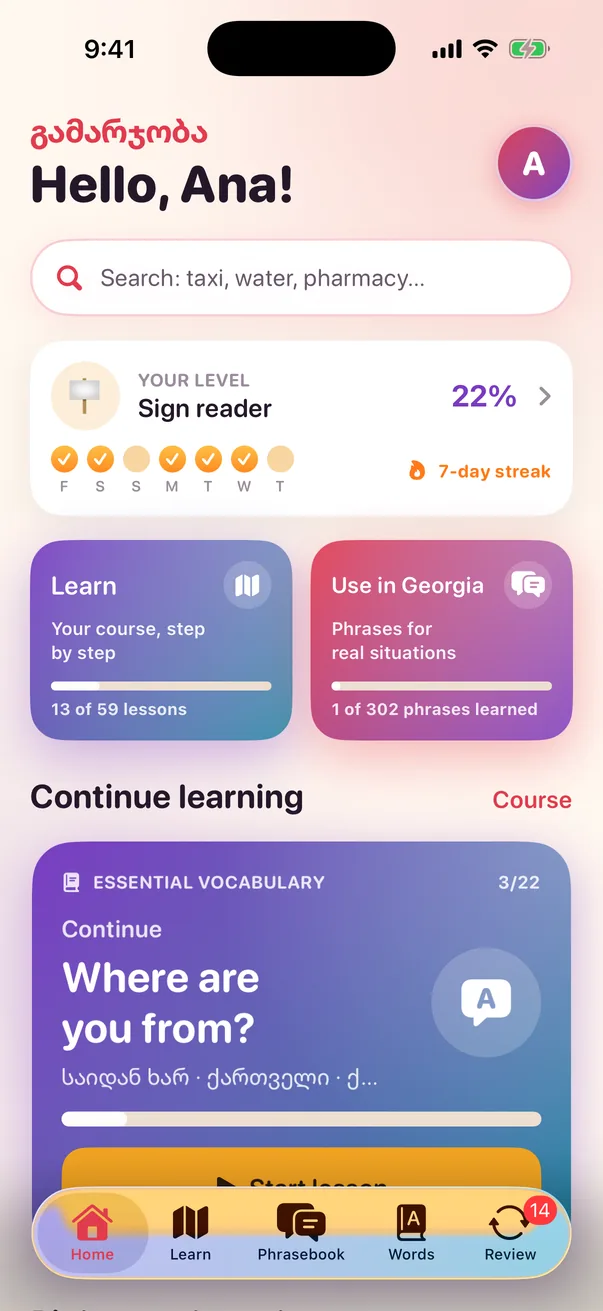
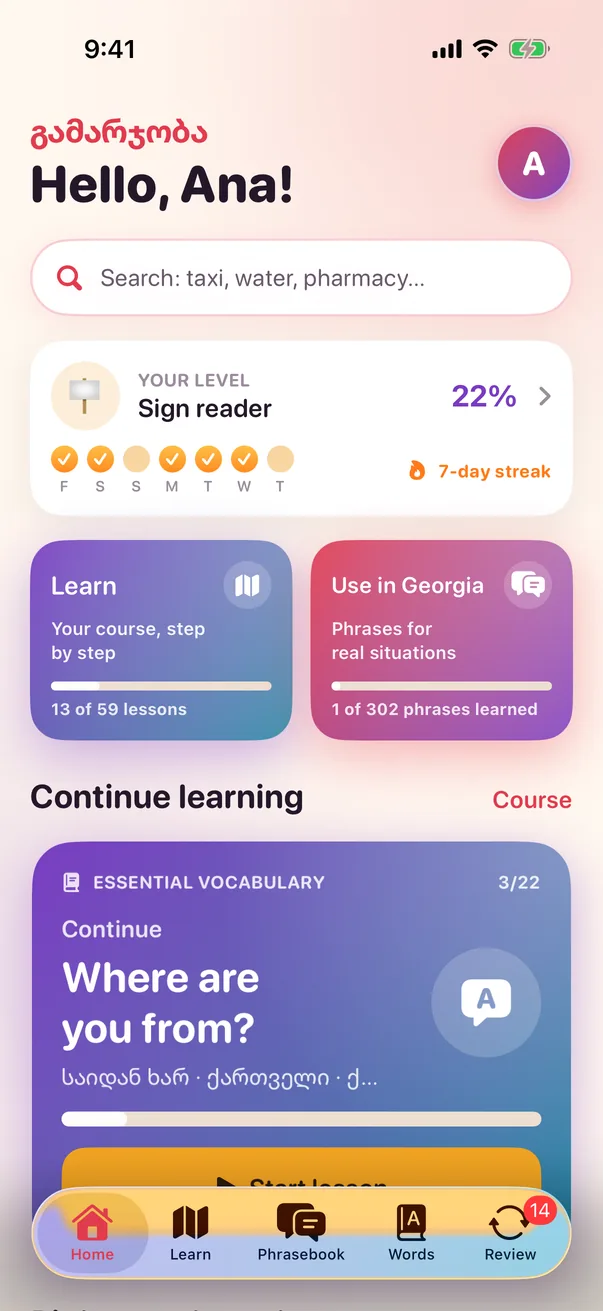
Site: the owner's iPhone frame
The screenshot sits under frame.webp, fitted to its see-through screen; the
simulator's own Dynamic Island is painted out of the screenshots so only the
frame's shows (the two models' islands differ in width).

Claude-Session: https://claude.ai/code/session_01DAx8mCnmiYNubaiXsBqvV2

Changed region(s): [[0.3284, 0.0, 0.6567, 0.061]]

diff --git a/pl/index.html b/pl/index.html
@@ -39,9 +39,9 @@
   </div>
   <div class="fan">
     <div class="glow" aria-hidden="true"></div>
-    <div class="phone left"><div class="screen"><picture><source media="(prefers-color-scheme: dark)" srcset="/shots/alphabet-dark.webp"><img src="/shots/alphabet-light.webp" width="603" height="1311" alt="Tablica alfabetu w Arze" loading="lazy" decoding="async"></picture></div></div>
-    <div class="phone right"><div class="screen"><picture><source media="(prefers-color-scheme: dark)" srcset="/shots/phrase-dark.webp"><img src="/shots/phrase-light.webp" width="603" height="1311" alt="Karta zwrotu: prośba do taksówkarza, żeby się tu zatrzymał, po gruzińsku, z nagraniem" loading="lazy" decoding="async"></picture></div></div>
-    <div class="phone center"><div class="screen"><picture><source media="(prefers-color-scheme: dark)" srcset="/shots/home-dark.webp"><img src="/shots/home-light.webp" width="603" height="1311" alt="Ekran startowy Ary: powitanie, wyszukiwarka, postępy i następna lekcja" fetchpriority="high" decoding="async"></picture></div></div>
+    <div class="phone left"><div class="screen"><picture><source media="(prefers-color-scheme: dark)" srcset="/shots/alphabet-dark.webp"><img src="/shots/alphabet-light.webp" width="603" height="1311" alt="Tablica alfabetu w Arze" loading="lazy" decoding="async"></picture></div><img class="frame" src="/frame.webp" width="978" height="2000" alt=""></div>
+    <div class="phone right"><div class="screen"><picture><source media="(prefers-color-scheme: dark)" srcset="/shots/phrase-dark.webp"><img src="/shots/phrase-light.webp" width="603" height="1311" alt="Karta zwrotu: prośba do taksówkarza, żeby się tu zatrzymał, po gruzińsku, z nagraniem" loading="lazy" decoding="async"></picture></div><img class="frame" src="/frame.webp" width="978" height="2000" alt=""></div>
+    <div class="phone center"><div class="screen"><picture><source media="(prefers-color-scheme: dark)" srcset="/shots/home-dark.webp"><img src="/shots/home-light.webp" width="603" height="1311" alt="Ekran startowy Ary: powitanie, wyszukiwarka, postępy i następna lekcja" fetchpriority="high" decoding="async"></picture></div><img class="frame" src="/frame.webp" width="978" height="2000" alt=""></div>
     <img class="mascot" src="/mascot.png" width="360" height="525" alt="Ara, papuga ara, macha skrzydłem">
   </div>
 </section>
@@ -56,56 +56,56 @@
   <div class="walk-grid">
     <div class="steps">
     <article class="step is-active" data-step="0" style="--c: var(--pomegranate)">
-      <div class="art"><div class="phone "><div class="screen"><picture><source media="(prefers-color-scheme: dark)" srcset="/shots/letter-dark.webp"><img src="/shots/letter-light.webp" width="603" height="1311" alt="Nauka nowej litery: nazwa, dźwięk i nagranie" loading="lazy" decoding="async"></picture></div></div></div>
+      <div class="art"><div class="phone "><div class="screen"><picture><source media="(prefers-color-scheme: dark)" srcset="/shots/letter-dark.webp"><img src="/shots/letter-light.webp" width="603" height="1311" alt="Nauka nowej litery: nazwa, dźwięk i nagranie" loading="lazy" decoding="async"></picture></div><img class="frame" src="/frame.webp" width="978" height="2000" alt=""></div></div>
       <span class="chip">Nauka</span>
       <h3>Zacznij od pierwszej litery.</h3>
       <p>Gruziński ma własny alfabet: 33 litery, bez wielkich liter, każda to jeden dźwięk. Ara przedstawia je po kolei, z nagraniem i wskazówką do każdego dźwięku, porównaną z polskim.</p>
       <ul class="list"><li>33 litery, każda ze swoim dźwiękiem</li><li>Czytanie od pierwszej lekcji</li><li>Już czytasz po gruzińsku? Zacznij dalej</li></ul>
     </article>
     <article class="step" data-step="1" style="--c: var(--saperavi)">
-      <div class="art"><div class="phone "><div class="screen"><picture><source media="(prefers-color-scheme: dark)" srcset="/shots/lesson-dark.webp"><img src="/shots/lesson-light.webp" width="603" height="1311" alt="Ćwiczenie: co znaczy პური (chleb)?" loading="lazy" decoding="async"></picture></div></div></div>
+      <div class="art"><div class="phone "><div class="screen"><picture><source media="(prefers-color-scheme: dark)" srcset="/shots/lesson-dark.webp"><img src="/shots/lesson-light.webp" width="603" height="1311" alt="Ćwiczenie: co znaczy პური (chleb)?" loading="lazy" decoding="async"></picture></div><img class="frame" src="/frame.webp" width="978" height="2000" alt=""></div></div>
       <span class="chip">Lekcje</span>
       <h3>Krótkie lekcje, które zostają.</h3>
       <p>59 lekcji w sześciu etapach, od pierwszej litery do suto zastawionego stołu. 15 rodzajów ćwiczeń: słuchanie, łączenie w pary, pisanie, układanie zdań, wybór odpowiedzi.</p>
       <ul class="list"><li>Słowa, których naprawdę użyjesz</li><li>Gramatyka prostymi słowami, w porównaniu z polską</li><li>Stuknij słowo, by zobaczyć, co znaczy</li><li>Błędna odpowiedź wraca na końcu</li></ul>
     </article>
     <article class="step" data-step="2" style="--c: var(--tkemali)">
-      <div class="art"><div class="phone "><div class="screen"><picture><source media="(prefers-color-scheme: dark)" srcset="/shots/phrasebook-dark.webp"><img src="/shots/phrasebook-light.webp" width="603" height="1311" alt="Zakładka W Gruzji: wyszukiwarka, zwroty awaryjne i sytuacje" loading="lazy" decoding="async"></picture></div></div></div>
+      <div class="art"><div class="phone "><div class="screen"><picture><source media="(prefers-color-scheme: dark)" srcset="/shots/phrasebook-dark.webp"><img src="/shots/phrasebook-light.webp" width="603" height="1311" alt="Zakładka W Gruzji: wyszukiwarka, zwroty awaryjne i sytuacje" loading="lazy" decoding="async"></picture></div><img class="frame" src="/frame.webp" width="978" height="2000" alt=""></div></div>
       <span class="chip">W Gruzji</span>
       <h3>302 zwroty na prawdziwe sytuacje.</h3>
       <p>Gotowe od pierwszego dnia, nic do odblokowania: 11 sytuacji, w każdej słowa potrzebne od razu. Zapisz zwrot, a trafi do Twoich powtórek.</p>
       <ul class="list"><li>Transport</li><li>Zakupy i bazar</li><li>Restauracje i kawiarnie</li><li>Zdrowie i apteka</li><li>Dom i codzienność</li><li>Nagłe wypadki, z numerem 112</li></ul>
     </article>
     <article class="step" data-step="3" style="--c: var(--blacksea)">
-      <div class="art"><div class="phone "><div class="screen"><picture><source media="(prefers-color-scheme: dark)" srcset="/shots/show-dark.webp"><img src="/shots/show-light.webp" width="603" height="1311" alt="Tryb Pokaż: zwrot dużymi gruzińskimi literami do pokazania komuś" loading="lazy" decoding="async"></picture></div></div></div>
+      <div class="art"><div class="phone "><div class="screen"><picture><source media="(prefers-color-scheme: dark)" srcset="/shots/show-dark.webp"><img src="/shots/show-light.webp" width="603" height="1311" alt="Tryb Pokaż: zwrot dużymi gruzińskimi literami do pokazania komuś" loading="lazy" decoding="async"></picture></div><img class="frame" src="/frame.webp" width="978" height="2000" alt=""></div></div>
       <span class="chip">Pokaż</span>
       <h3>Wstydzisz się powiedzieć? Pokaż.</h3>
       <p>Jedno stuknięcie i zwrot pojawia się dużymi, wyraźnymi literami: do pokazania kierowcy albo sprzedawcy. Albo odtwórz go na głos, także wolniej.</p>
       <ul class="list"><li>Duży tekst, jasny lub ciemny</li><li>Nagranie w zwykłym lub wolnym tempie</li><li>Zapis „jak to brzmi”, żeby powiedzieć samemu</li></ul>
     </article>
     <article class="step" data-step="4" style="--c: var(--gold)">
-      <div class="art"><div class="phone "><div class="screen"><picture><source media="(prefers-color-scheme: dark)" srcset="/shots/dialogue-dark.webp"><img src="/shots/dialogue-light.webp" width="603" height="1311" alt="Rozmowa na bazarze między sprzedawcą a klientem" loading="lazy" decoding="async"></picture></div></div></div>
+      <div class="art"><div class="phone "><div class="screen"><picture><source media="(prefers-color-scheme: dark)" srcset="/shots/dialogue-dark.webp"><img src="/shots/dialogue-light.webp" width="603" height="1311" alt="Rozmowa na bazarze między sprzedawcą a klientem" loading="lazy" decoding="async"></picture></div><img class="frame" src="/frame.webp" width="978" height="2000" alt=""></div></div>
       <span class="chip">Rozmowy</span>
       <h3>Ćwicz prawdziwe rozmowy.</h3>
       <p>21 codziennych dialogów: na bazarze, w marszrutce, na kolacji u znajomych. Czytaj, słuchaj każdej kwestii, a potem wybierz stronę i odpowiadaj sam.</p>
       <ul class="list"><li>Taksówka</li><li>Na bazarze</li><li>W aptece</li><li>Kolacja u znajomych</li><li>Karta SIM</li><li>Telefon pod 112</li></ul>
     </article>
     <article class="step" data-step="5" style="--c: var(--saperavi)">
-      <div class="art"><div class="phone "><div class="screen"><picture><source media="(prefers-color-scheme: dark)" srcset="/shots/search-dark.webp"><img src="/shots/search-light.webp" width="603" height="1311" alt="Wyszukiwanie słowa „woda”: słowa i zwroty z nim" loading="lazy" decoding="async"></picture></div></div></div>
+      <div class="art"><div class="phone "><div class="screen"><picture><source media="(prefers-color-scheme: dark)" srcset="/shots/search-dark.webp"><img src="/shots/search-light.webp" width="603" height="1311" alt="Wyszukiwanie słowa „woda”: słowa i zwroty z nim" loading="lazy" decoding="async"></picture></div><img class="frame" src="/frame.webp" width="978" height="2000" alt=""></div></div>
       <span class="chip">Słowa</span>
       <h3>Znajdź każde słowo, jakkolwiek je wpiszesz.</h3>
       <p>Szukaj po polsku, po gruzińsku albo łacinką; literówki nie szkodzą. Słowa, zwroty, sytuacje i rozmowy w jednym miejscu.</p>
       <ul class="list"><li>Każde słowo z aplikacji, ze znaczeniem</li><li>Co już znasz, a co jest nowe</li></ul>
     </article>
     <article class="step" data-step="6" style="--c: var(--pomegranate)">
-      <div class="art"><div class="phone "><div class="screen"><picture><source media="(prefers-color-scheme: dark)" srcset="/shots/review-dark.webp"><img src="/shots/review-light.webp" width="603" height="1311" alt="Powtórki: 14 na dziś i trudne słowa" loading="lazy" decoding="async"></picture></div></div></div>
+      <div class="art"><div class="phone "><div class="screen"><picture><source media="(prefers-color-scheme: dark)" srcset="/shots/review-dark.webp"><img src="/shots/review-light.webp" width="603" height="1311" alt="Powtórki: 14 na dziś i trudne słowa" loading="lazy" decoding="async"></picture></div><img class="frame" src="/frame.webp" width="978" height="2000" alt=""></div></div>
       <span class="chip">Powtórki</span>
       <h3>Pamiętaj także za tydzień.</h3>
       <p>Każde słowo wraca tuż przed tym, zanim je zapomnisz: po dniu, potem po trzech, potem po ośmiu. Pomyłka? Wróci za dziesięć minut.</p>
       <ul class="list"><li>Kilka minut dziennie</li><li>Trudne słowa zebrane w jednym miejscu</li></ul>
     </article>
     <article class="step" data-step="7" style="--c: var(--tkemali)">
-      <div class="art"><div class="phone "><div class="screen"><picture><source media="(prefers-color-scheme: dark)" srcset="/shots/progress-dark.webp"><img src="/shots/progress-light.webp" width="603" height="1311" alt="Postępy: etap Czytelnik szyldów i to, co już umiesz" loading="lazy" decoding="async"></picture></div></div></div>
+      <div class="art"><div class="phone "><div class="screen"><picture><source media="(prefers-color-scheme: dark)" srcset="/shots/progress-dark.webp"><img src="/shots/progress-light.webp" width="603" height="1311" alt="Postępy: etap Czytelnik szyldów i to, co już umiesz" loading="lazy" decoding="async"></picture></div><img class="frame" src="/frame.webp" width="978" height="2000" alt=""></div></div>
       <span class="chip">Postępy</span>
       <h3>Od lądowania do tamady.</h3>
       <p>Bez punktów do zbierania. Ara pokazuje, co naprawdę już umiesz: od czytania szyldów po wznoszenie toastu na suprze.</p>
@@ -114,7 +114,7 @@
     </div>
     <div class="pin" aria-hidden="true">
       <div class="pin-in">
-        <div class="stack"><div class="shot" data-shot="0" style="--c: var(--pomegranate)"><div class="phone flat"><div class="screen"><picture><source media="(prefers-color-scheme: dark)" srcset="/shots/letter-dark.webp"><img src="/shots/letter-light.webp" width="603" height="1311" alt="" loading="lazy" decoding="async"></picture></div></div></div><div class="shot" data-shot="1" style="--c: var(--saperavi)"><div class="phone flat"><div class="screen"><picture><source media="(prefers-color-scheme: dark)" srcset="/shots/lesson-dark.webp"><img src="/shots/lesson-light.webp" width="603" height="1311" alt="" loading="lazy" decoding="async"></picture></div></div></div><div class="shot" data-shot="2" style="--c: var(--tkemali)"><div class="phone flat"><div class="screen"><picture><source media="(prefers-color-scheme: dark)" srcset="/shots/phrasebook-dark.webp"><img src="/shots/phrasebook-light.webp" width="603" height="1311" alt="" loading="lazy" decoding="async"></picture></div></div></div><div class="shot" data-shot="3" style="--c: var(--blacksea)"><div class="phone flat"><div class="screen"><picture><source media="(prefers-color-scheme: dark)" srcset="/shots/show-dark.webp"><img src="/shots/show-light.webp" width="603" height="1311" alt="" loading="lazy" decoding="async"></picture></div></div></div><div class="shot" data-shot="4" style="--c: var(--gold)"><div class="phone flat"><div class="screen"><picture><source media="(prefers-color-scheme: dark)" srcset="/shots/dialogue-dark.webp"><img src="/shots/dialogue-light.webp" width="603" height="1311" alt="" loading="lazy" decoding="async"></picture></div></div></div><div class="shot" data-shot="5" style="--c: var(--saperavi)"><div class="phone flat"><div class="screen"><picture><source media="(prefers-color-scheme: dark)" srcset="/shots/search-dark.webp"><img src="/shots/search-light.webp" width="603" height="1311" alt="" loading="lazy" decoding="async"></picture></div></div></div><div class="shot" data-shot="6" style="--c: var(--pomegranate)"><div class="phone flat"><div class="screen"><picture><source media="(prefers-color-scheme: dark)" srcset="/shots/review-dark.webp"><img src="/shots/review-light.webp" width="603" height="1311" alt="" loading="lazy" decoding="async"></picture></div></div></div><div class="shot" data-shot="7" style="--c: var(--tkemali)"><div class="phone flat"><div class="screen"><picture><source media="(prefers-color-scheme: dark)" srcset="/shots/progress-dark.webp"><img src="/shots/progress-light.webp" width="603" height="1311" alt="" loading="lazy" decoding="async"></picture></div></div></div></div>
+        <div class="stack"><div class="shot" data-shot="0" style="--c: var(--pomegranate)"><div class="phone flat"><div class="screen"><picture><source media="(prefers-color-scheme: dark)" srcset="/shots/letter-dark.webp"><img src="/shots/letter-light.webp" width="603" height="1311" alt="" loading="lazy" decoding="async"></picture></div><img class="frame" src="/frame.webp" width="978" height="2000" alt=""></div></div><div class="shot" data-shot="1" style="--c: var(--saperavi)"><div class="phone flat"><div class="screen"><picture><source media="(prefers-color-scheme: dark)" srcset="/shots/lesson-dark.webp"><img src="/shots/lesson-light.webp" width="603" height="1311" alt="" loading="lazy" decoding="async"></picture></div><img class="frame" src="/frame.webp" width="978" height="2000" alt=""></div></div><div class="shot" data-shot="2" style="--c: var(--tkemali)"><div class="phone flat"><div class="screen"><picture><source media="(prefers-color-scheme: dark)" srcset="/shots/phrasebook-dark.webp"><img src="/shots/phrasebook-light.webp" width="603" height="1311" alt="" loading="lazy" decoding="async"></picture></div><img class="frame" src="/frame.webp" width="978" height="2000" alt=""></div></div><div class="shot" data-shot="3" style="--c: var(--blacksea)"><div class="phone flat"><div class="screen"><picture><source media="(prefers-color-scheme: dark)" srcset="/shots/show-dark.webp"><img src="/shots/show-light.webp" width="603" height="1311" alt="" loading="lazy" decoding="async"></picture></div><img class="frame" src="/frame.webp" width="978" height="2000" alt=""></div></div><div class="shot" data-shot="4" style="--c: var(--gold)"><div class="phone flat"><div class="screen"><picture><source media="(prefers-color-scheme: dark)" srcset="/shots/dialogue-dark.webp"><img src="/shots/dialogue-light.webp" width="603" height="1311" alt="" loading="lazy" decoding="async"></picture></div><img class="frame" src="/frame.webp" width="978" height="2000" alt=""></div></div><div class="shot" data-shot="5" style="--c: var(--saperavi)"><div class="phone flat"><div class="screen"><picture><source media="(prefers-color-scheme: dark)" srcset="/shots/search-dark.webp"><img src="/shots/search-light.webp" width="603" height="1311" alt="" loading="lazy" decoding="async"></picture></div><img class="frame" src="/frame.webp" width="978" height="2000" alt=""></div></div><div class="shot" data-shot="6" style="--c: var(--pomegranate)"><div class="phone flat"><div class="screen"><picture><source media="(prefers-color-scheme: dark)" srcset="/shots/review-dark.webp"><img src="/shots/review-light.webp" width="603" height="1311" alt="" loading="lazy" decoding="async"></picture></div><img class="frame" src="/frame.webp" width="978" height="2000" alt=""></div></div><div class="shot" data-shot="7" style="--c: var(--tkemali)"><div class="phone flat"><div class="screen"><picture><source media="(prefers-color-scheme: dark)" srcset="/shots/progress-dark.webp"><img src="/shots/progress-light.webp" width="603" height="1311" alt="" loading="lazy" decoding="async"></picture></div><img class="frame" src="/frame.webp" width="978" height="2000" alt=""></div></div></div>
         <div class="ticks"><i style="--c: var(--pomegranate)"></i><i style="--c: var(--saperavi)"></i><i style="--c: var(--tkemali)"></i><i style="--c: var(--blacksea)"></i><i style="--c: var(--gold)"></i><i style="--c: var(--saperavi)"></i><i style="--c: var(--pomegranate)"></i><i style="--c: var(--tkemali)"></i></div>
       </div>
     </div>

diff --git a/index.html b/index.html
@@ -39,9 +39,9 @@
   </div>
   <div class="fan">
     <div class="glow" aria-hidden="true"></div>
-    <div class="phone left"><div class="screen"><picture><source media="(prefers-color-scheme: dark)" srcset="/shots/alphabet-dark.webp"><img src="/shots/alphabet-light.webp" width="603" height="1311" alt="The alphabet chart in Ara" loading="lazy" decoding="async"></picture></div></div>
-    <div class="phone right"><div class="screen"><picture><source media="(prefers-color-scheme: dark)" srcset="/shots/phrase-dark.webp"><img src="/shots/phrase-light.webp" width="603" height="1311" alt="A phrase card: ask the taxi to stop here, in Georgian, with audio" loading="lazy" decoding="async"></picture></div></div>
-    <div class="phone center"><div class="screen"><picture><source media="(prefers-color-scheme: dark)" srcset="/shots/home-dark.webp"><img src="/shots/home-light.webp" width="603" height="1311" alt="Ara's Home screen: greeting, search, progress and the next lesson" fetchpriority="high" decoding="async"></picture></div></div>
+    <div class="phone left"><div class="screen"><picture><source media="(prefers-color-scheme: dark)" srcset="/shots/alphabet-dark.webp"><img src="/shots/alphabet-light.webp" width="603" height="1311" alt="The alphabet chart in Ara" loading="lazy" decoding="async"></picture></div><img class="frame" src="/frame.webp" width="978" height="2000" alt=""></div>
+    <div class="phone right"><div class="screen"><picture><source media="(prefers-color-scheme: dark)" srcset="/shots/phrase-dark.webp"><img src="/shots/phrase-light.webp" width="603" height="1311" alt="A phrase card: ask the taxi to stop here, in Georgian, with audio" loading="lazy" decoding="async"></picture></div><img class="frame" src="/frame.webp" width="978" height="2000" alt=""></div>
+    <div class="phone center"><div class="screen"><picture><source media="(prefers-color-scheme: dark)" srcset="/shots/home-dark.webp"><img src="/shots/home-light.webp" width="603" height="1311" alt="Ara's Home screen: greeting, search, progress and the next lesson" fetchpriority="high" decoding="async"></picture></div><img class="frame" src="/frame.webp" width="978" height="2000" alt=""></div>
     <img class="mascot" src="/mascot.png" width="360" height="525" alt="Ara the macaw waving">
   </div>
 </section>
@@ -56,56 +56,56 @@
   <div class="walk-grid">
     <div class="steps">
     <article class="step is-active" data-step="0" style="--c: var(--pomegranate)">
-      <div class="art"><div class="phone "><div class="screen"><picture><source media="(prefers-color-scheme: dark)" srcset="/shots/letter-dark.webp"><img src="/shots/letter-light.webp" width="603" height="1311" alt="Learning a new letter, with its name, sound and audio" loading="lazy" decoding="async"></picture></div></div></div>
+      <div class="art"><div class="phone "><div class="screen"><picture><source media="(prefers-color-scheme: dark)" srcset="/shots/letter-dark.webp"><img src="/shots/letter-light.webp" width="603" height="1311" alt="Learning a new letter, with its name, sound and audio" loading="lazy" decoding="async"></picture></div><img class="frame" src="/frame.webp" width="978" height="2000" alt=""></div></div>
       <span class="chip">Learn</span>
       <h3>Start from the very first letter.</h3>
       <p>Georgian has its own alphabet: 33 letters, no capitals, one sound each. Ara teaches them one at a time, with audio and a tip for every sound.</p>
       <ul class="list"><li>33 letters, each with its sound</li><li>Reading from the first lesson</li><li>Already reading Georgian? Start further along</li></ul>
     </article>
     <article class="step" data-step="1" style="--c: var(--saperavi)">
-      <div class="art"><div class="phone "><div class="screen"><picture><source media="(prefers-color-scheme: dark)" srcset="/shots/lesson-dark.webp"><img src="/shots/lesson-light.webp" width="603" height="1311" alt="An exercise: what does პური (bread) mean?" loading="lazy" decoding="async"></picture></div></div></div>
+      <div class="art"><div class="phone "><div class="screen"><picture><source media="(prefers-color-scheme: dark)" srcset="/shots/lesson-dark.webp"><img src="/shots/lesson-light.webp" width="603" height="1311" alt="An exercise: what does პური (bread) mean?" loading="lazy" decoding="async"></picture></div><img class="frame" src="/frame.webp" width="978" height="2000" alt=""></div></div>
       <span class="chip">Lessons</span>
       <h3>Short lessons that stay with you.</h3>
       <p>59 lessons in six stages, from the first letter to the dinner table. 15 kinds of exercise: listen, match pairs, spell, build a sentence, choose your reply.</p>
       <ul class="list"><li>Words you'll really use</li><li>Grammar in plain words</li><li>Tap any word to see its meaning</li><li>A wrong answer comes back at the end</li></ul>
     </article>
     <article class="step" data-step="2" style="--c: var(--tkemali)">
-      <div class="art"><div class="phone "><div class="screen"><picture><source media="(prefers-color-scheme: dark)" srcset="/shots/phrasebook-dark.webp"><img src="/shots/phrasebook-light.webp" width="603" height="1311" alt="The Use in Georgia tab: search, emergency phrases and situations" loading="lazy" decoding="async"></picture></div></div></div>
+      <div class="art"><div class="phone "><div class="screen"><picture><source media="(prefers-color-scheme: dark)" srcset="/shots/phrasebook-dark.webp"><img src="/shots/phrasebook-light.webp" width="603" height="1311" alt="The Use in Georgia tab: search, emergency phrases and situations" loading="lazy" decoding="async"></picture></div><img class="frame" src="/frame.webp" width="978" height="2000" alt=""></div></div>
       <span class="chip">Use in Georgia</span>
       <h3>302 phrases for real situations.</h3>
       <p>Ready from day one, with nothing to unlock: 11 situations, each with the words you need right now. Save a phrase and it joins your reviews.</p>
       <ul class="list"><li>Transport</li><li>Shopping & bazaar</li><li>Restaurants & cafés</li><li>Health & pharmacy</li><li>Home & everyday</li><li>Emergencies, with 112</li></ul>
     </article>
     <article class="step" data-step="3" style="--c: var(--blacksea)">
-      <div class="art"><div class="phone "><div class="screen"><picture><source media="(prefers-color-scheme: dark)" srcset="/shots/show-dark.webp"><img src="/shots/show-light.webp" width="603" height="1311" alt="Show mode: a phrase in large Georgian letters to show someone" loading="lazy" decoding="async"></picture></div></div></div>
+      <div class="art"><div class="phone "><div class="screen"><picture><source media="(prefers-color-scheme: dark)" srcset="/shots/show-dark.webp"><img src="/shots/show-light.webp" width="603" height="1311" alt="Show mode: a phrase in large Georgian letters to show someone" loading="lazy" decoding="async"></picture></div><img class="frame" src="/frame.webp" width="978" height="2000" alt=""></div></div>
       <span class="chip">Show mode</span>
       <h3>Too shy to say it? Show it.</h3>
       <p>One tap turns a phrase into big, clear Georgian to show a driver or a shopkeeper. Or play it aloud, slowly if you like.</p>
       <ul class="list"><li>Big text, light or dark</li><li>Audio, normal or slow</li><li>A sounds-like spelling to say it yourself</li></ul>
     </article>
     <article class="step" data-step="4" style="--c: var(--gold)">
-      <div class="art"><div class="phone "><div class="screen"><picture><source media="(prefers-color-scheme: dark)" srcset="/shots/dialogue-dark.webp"><img src="/shots/dialogue-light.webp" width="603" height="1311" alt="A conversation at the bazaar between a seller and a customer" loading="lazy" decoding="async"></picture></div></div></div>
+      <div class="art"><div class="phone "><div class="screen"><picture><source media="(prefers-color-scheme: dark)" srcset="/shots/dialogue-dark.webp"><img src="/shots/dialogue-light.webp" width="603" height="1311" alt="A conversation at the bazaar between a seller and a customer" loading="lazy" decoding="async"></picture></div><img class="frame" src="/frame.webp" width="978" height="2000" alt=""></div></div>
       <span class="chip">Conversations</span>
       <h3>Practise real conversations.</h3>
       <p>21 everyday dialogues: at the bazaar, on a marshrutka, at a friend's for dinner. Read along, hear every line, then take a side and answer yourself.</p>
       <ul class="list"><li>Taking a taxi</li><li>At the bazaar</li><li>At the pharmacy</li><li>Dinner at a friend's</li><li>Buying a SIM card</li><li>Calling 112</li></ul>
     </article>
     <article class="step" data-step="5" style="--c: var(--saperavi)">
-      <div class="art"><div class="phone "><div class="screen"><picture><source media="(prefers-color-scheme: dark)" srcset="/shots/search-dark.webp"><img src="/shots/search-light.webp" width="603" height="1311" alt="Searching for water: words and phrases with it" loading="lazy" decoding="async"></picture></div></div></div>
+      <div class="art"><div class="phone "><div class="screen"><picture><source media="(prefers-color-scheme: dark)" srcset="/shots/search-dark.webp"><img src="/shots/search-light.webp" width="603" height="1311" alt="Searching for water: words and phrases with it" loading="lazy" decoding="async"></picture></div><img class="frame" src="/frame.webp" width="978" height="2000" alt=""></div></div>
       <span class="chip">Words</span>
       <h3>Find any word, however you type it.</h3>
       <p>Search in English, in Georgian or in Latin letters, and typos are fine. Words, phrases, situations and conversations, all in one place.</p>
       <ul class="list"><li>Every word in the app, with its meaning</li><li>What you know and what's new</li></ul>
     </article>
     <article class="step" data-step="6" style="--c: var(--pomegranate)">
-      <div class="art"><div class="phone "><div class="screen"><picture><source media="(prefers-color-scheme: dark)" srcset="/shots/review-dark.webp"><img src="/shots/review-light.webp" width="603" height="1311" alt="Review: 14 items due today and the difficult words" loading="lazy" decoding="async"></picture></div></div></div>
+      <div class="art"><div class="phone "><div class="screen"><picture><source media="(prefers-color-scheme: dark)" srcset="/shots/review-dark.webp"><img src="/shots/review-light.webp" width="603" height="1311" alt="Review: 14 items due today and the difficult words" loading="lazy" decoding="async"></picture></div><img class="frame" src="/frame.webp" width="978" height="2000" alt=""></div></div>
       <span class="chip">Review</span>
       <h3>Remember it next week, too.</h3>
       <p>Each word comes back just before you'd forget it: after a day, then three, then eight. Miss one and it returns in ten minutes.</p>
       <ul class="list"><li>A few minutes a day</li><li>The difficult words, gathered for you</li></ul>
     </article>
     <article class="step" data-step="7" style="--c: var(--tkemali)">
-      <div class="art"><div class="phone "><div class="screen"><picture><source media="(prefers-color-scheme: dark)" srcset="/shots/progress-dark.webp"><img src="/shots/progress-light.webp" width="603" height="1311" alt="Progress: the stage Sign reader and what you can already do" loading="lazy" decoding="async"></picture></div></div></div>
+      <div class="art"><div class="phone "><div class="screen"><picture><source media="(prefers-color-scheme: dark)" srcset="/shots/progress-dark.webp"><img src="/shots/progress-light.webp" width="603" height="1311" alt="Progress: the stage Sign reader and what you can already do" loading="lazy" decoding="async"></picture></div><img class="frame" src="/frame.webp" width="978" height="2000" alt=""></div></div>
       <span class="chip">Progress</span>
       <h3>From Just landed to Tamada.</h3>
       <p>No points to collect. Ara shows what you can actually do, from reading shop signs to raising a toast at a supra.</p>
@@ -114,7 +114,7 @@
     </div>
     <div class="pin" aria-hidden="true">
       <div class="pin-in">
-        <div class="stack"><div class="shot" data-shot="0" style="--c: var(--pomegranate)"><div class="phone flat"><div class="screen"><picture><source media="(prefers-color-scheme: dark)" srcset="/shots/letter-dark.webp"><img src="/shots/letter-light.webp" width="603" height="1311" alt="" loading="lazy" decoding="async"></picture></div></div></div><div class="shot" data-shot="1" style="--c: var(--saperavi)"><div class="phone flat"><div class="screen"><picture><source media="(prefers-color-scheme: dark)" srcset="/shots/lesson-dark.webp"><img src="/shots/lesson-light.webp" width="603" height="1311" alt="" loading="lazy" decoding="async"></picture></div></div></div><div class="shot" data-shot="2" style="--c: var(--tkemali)"><div class="phone flat"><div class="screen"><picture><source media="(prefers-color-scheme: dark)" srcset="/shots/phrasebook-dark.webp"><img src="/shots/phrasebook-light.webp" width="603" height="1311" alt="" loading="lazy" decoding="async"></picture></div></div></div><div class="shot" data-shot="3" style="--c: var(--blacksea)"><div class="phone flat"><div class="screen"><picture><source media="(prefers-color-scheme: dark)" srcset="/shots/show-dark.webp"><img src="/shots/show-light.webp" width="603" height="1311" alt="" loading="lazy" decoding="async"></picture></div></div></div><div class="shot" data-shot="4" style="--c: var(--gold)"><div class="phone flat"><div class="screen"><picture><source media="(prefers-color-scheme: dark)" srcset="/shots/dialogue-dark.webp"><img src="/shots/dialogue-light.webp" width="603" height="1311" alt="" loading="lazy" decoding="async"></picture></div></div></div><div class="shot" data-shot="5" style="--c: var(--saperavi)"><div class="phone flat"><div class="screen"><picture><source media="(prefers-color-scheme: dark)" srcset="/shots/search-dark.webp"><img src="/shots/search-light.webp" width="603" height="1311" alt="" loading="lazy" decoding="async"></picture></div></div></div><div class="shot" data-shot="6" style="--c: var(--pomegranate)"><div class="phone flat"><div class="screen"><picture><source media="(prefers-color-scheme: dark)" srcset="/shots/review-dark.webp"><img src="/shots/review-light.webp" width="603" height="1311" alt="" loading="lazy" decoding="async"></picture></div></div></div><div class="shot" data-shot="7" style="--c: var(--tkemali)"><div class="phone flat"><div class="screen"><picture><source media="(prefers-color-scheme: dark)" srcset="/shots/progress-dark.webp"><img src="/shots/progress-light.webp" width="603" height="1311" alt="" loading="lazy" decoding="async"></picture></div></div></div></div>
+        <div class="stack"><div class="shot" data-shot="0" style="--c: var(--pomegranate)"><div class="phone flat"><div class="screen"><picture><source media="(prefers-color-scheme: dark)" srcset="/shots/letter-dark.webp"><img src="/shots/letter-light.webp" width="603" height="1311" alt="" loading="lazy" decoding="async"></picture></div><img class="frame" src="/frame.webp" width="978" height="2000" alt=""></div></div><div class="shot" data-shot="1" style="--c: var(--saperavi)"><div class="phone flat"><div class="screen"><picture><source media="(prefers-color-scheme: dark)" srcset="/shots/lesson-dark.webp"><img src="/shots/lesson-light.webp" width="603" height="1311" alt="" loading="lazy" decoding="async"></picture></div><img class="frame" src="/frame.webp" width="978" height="2000" alt=""></div></div><div class="shot" data-shot="2" style="--c: var(--tkemali)"><div class="phone flat"><div class="screen"><picture><source media="(prefers-color-scheme: dark)" srcset="/shots/phrasebook-dark.webp"><img src="/shots/phrasebook-light.webp" width="603" height="1311" alt="" loading="lazy" decoding="async"></picture></div><img class="frame" src="/frame.webp" width="978" height="2000" alt=""></div></div><div class="shot" data-shot="3" style="--c: var(--blacksea)"><div class="phone flat"><div class="screen"><picture><source media="(prefers-color-scheme: dark)" srcset="/shots/show-dark.webp"><img src="/shots/show-light.webp" width="603" height="1311" alt="" loading="lazy" decoding="async"></picture></div><img class="frame" src="/frame.webp" width="978" height="2000" alt=""></div></div><div class="shot" data-shot="4" style="--c: var(--gold)"><div class="phone flat"><div class="screen"><picture><source media="(prefers-color-scheme: dark)" srcset="/shots/dialogue-dark.webp"><img src="/shots/dialogue-light.webp" width="603" height="1311" alt="" loading="lazy" decoding="async"></picture></div><img class="frame" src="/frame.webp" width="978" height="2000" alt=""></div></div><div class="shot" data-shot="5" style="--c: var(--saperavi)"><div class="phone flat"><div class="screen"><picture><source media="(prefers-color-scheme: dark)" srcset="/shots/search-dark.webp"><img src="/shots/search-light.webp" width="603" height="1311" alt="" loading="lazy" decoding="async"></picture></div><img class="frame" src="/frame.webp" width="978" height="2000" alt=""></div></div><div class="shot" data-shot="6" style="--c: var(--pomegranate)"><div class="phone flat"><div class="screen"><picture><source media="(prefers-color-scheme: dark)" srcset="/shots/review-dark.webp"><img src="/shots/review-light.webp" width="603" height="1311" alt="" loading="lazy" decoding="async"></picture></div><img class="frame" src="/frame.webp" width="978" height="2000" alt=""></div></div><div class="shot" data-shot="7" style="--c: var(--tkemali)"><div class="phone flat"><div class="screen"><picture><source media="(prefers-color-scheme: dark)" srcset="/shots/progress-dark.webp"><img src="/shots/progress-light.webp" width="603" height="1311" alt="" loading="lazy" decoding="async"></picture></div><img class="frame" src="/frame.webp" width="978" height="2000" alt=""></div></div></div>
         <div class="ticks"><i style="--c: var(--pomegranate)"></i><i style="--c: var(--saperavi)"></i><i style="--c: var(--tkemali)"></i><i style="--c: var(--blacksea)"></i><i style="--c: var(--gold)"></i><i style="--c: var(--saperavi)"></i><i style="--c: var(--pomegranate)"></i><i style="--c: var(--tkemali)"></i></div>
       </div>
     </div>

diff --git a/style.css b/style.css
@@ -65,19 +65,14 @@ nav.lang a:hover:not([aria-current]) { border-color: var(--ink-soft); color: var
 .home .lead { font-size: 18px; color: var(--ink-soft); max-width: 46ch; }
 .hl { background: linear-gradient(transparent 62%, color-mix(in srgb, var(--gold) 55%, transparent) 62% 92%, transparent 92%); padding: 0 2px; }
 
-/* iPhone frame: a near-black body with a thin light rim, side buttons, the real screenshot inside
-   (the screenshots already show the status bar and the Dynamic Island). */
-.phone { position: relative; aspect-ratio: 603 / 1311; padding: 3.4%; border-radius: 15.5% / 7.2%;
-  background: #0E0B12; box-shadow: inset 0 0 0 1.5px #4A4152, inset 0 0 0 4px #0E0B12, 0 30px 50px -18px rgba(36, 24, 42, 0.45), 0 10px 20px -10px rgba(36, 24, 42, 0.3); }
-.phone::before, .phone::after { content: ""; position: absolute; width: 1.4%; background: #2A2430; border-radius: 2px; }
-.phone::before { left: -1.1%; top: 19%; height: 7%; }
-.phone::after { right: -1.1%; top: 25%; height: 11%; }
-.phone .screen { position: relative; width: 100%; height: 100%; border-radius: 12.6% / 5.9%; overflow: hidden; background: #000; }
-.phone img { display: block; width: 100%; height: 100%; object-fit: cover; }
-@media (prefers-color-scheme: dark) {
-  .tile svg { color: var(--bg); }
-  .phone { box-shadow: inset 0 0 0 1.5px #5B5163, inset 0 0 0 4px #0E0B12, 0 30px 60px -18px rgba(0, 0, 0, 0.7); }
-}
+/* iPhone frame: the screenshot sits under /frame.webp (978 x 2000), whose screen is see-through:
+   the opening runs from x 52 to 926 and y 50 to 1950 with ~138px corners. The screenshot fills it top to
+   bottom (so its Dynamic Island lies exactly under the frame's), with smaller corners hidden under the bezel. */
+.phone { position: relative; aspect-ratio: 978 / 2000; filter: drop-shadow(0 26px 28px rgba(36, 24, 42, 0.28)); }
+.phone .screen { position: absolute; left: 5.317%; top: 2.5%; width: 89.366%; height: 95%; border-radius: 13% / 6%; overflow: hidden; background: #000; }
+.phone .screen img { display: block; width: 100%; height: 100%; object-fit: cover; }
+.phone .frame { position: absolute; inset: 0; width: 100%; height: 100%; pointer-events: none; }
+@media (prefers-color-scheme: dark) { .phone { filter: drop-shadow(0 26px 30px rgba(0, 0, 0, 0.6)); } }
 
 /* Hero: words on the left, three phones fanned out on the right */
 .hero2 { display: grid; grid-template-columns: 1fr 1.05fr; gap: 40px; align-items: center; padding: 8px 0 32px; }

diff --git a/tools/make_home.py b/tools/make_home.py
@@ -4,7 +4,8 @@
 Both come from one template so they always have the same sections and phones;
 only the words differ. Run after changing any text here:  python3 tools/make_home.py
 
-Screenshots live in /shots as <name>-light.webp and <name>-dark.webp (603 x 1311,
+The iPhone frame is /frame.webp (978 x 2000, see-through screen; the owner's picture);
+the screenshot sits underneath it. Screenshots live in /shots as <name>-light.webp and <name>-dark.webp (603 x 1311,
 from the iPhone app's QA run); the page shows the dark one when the visitor's
 device is in dark mode.
 """
@@ -228,7 +229,7 @@ def phone(shot, alt, cls="", eager=False):
     return (f'<div class="phone {cls}"><div class="screen"><picture>'
             f'<source media="(prefers-color-scheme: dark)" srcset="/shots/{shot}-dark.webp">'
             f'<img src="/shots/{shot}-light.webp" width="603" height="1311" {alt_attr} {load} decoding="async">'
-            f'</picture></div></div>')
+            f'</picture></div><img class="frame" src="/frame.webp" width="978" height="2000" alt=""></div>')
 
 
 def header(t, current):
